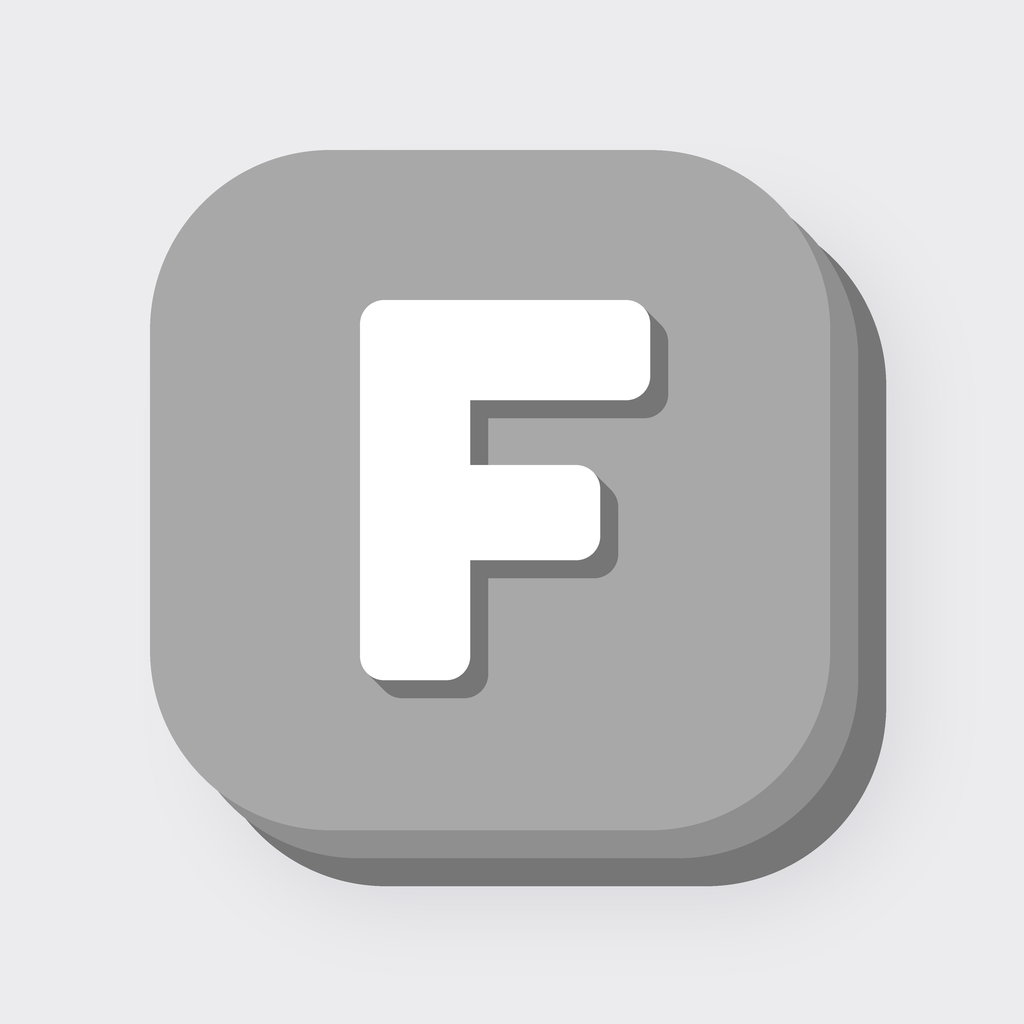
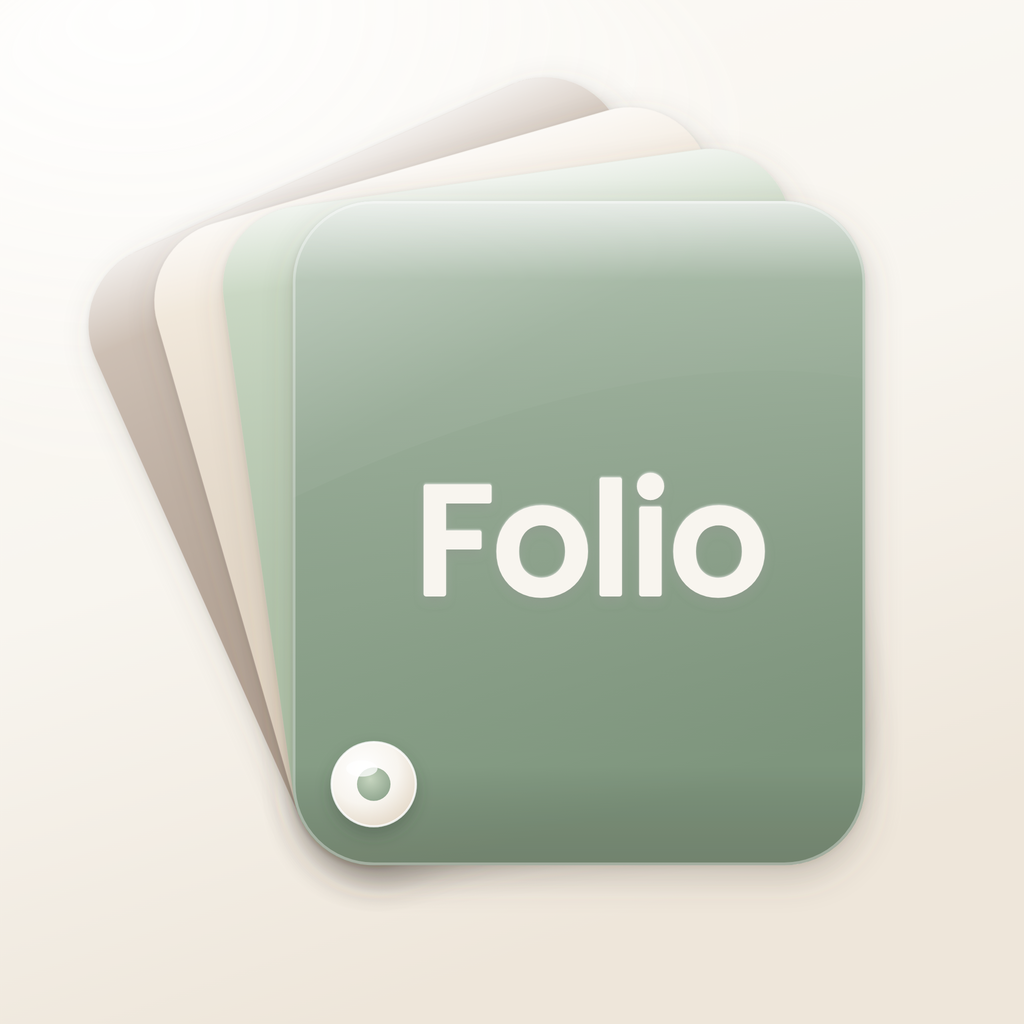
Add files via upload

diff --git a/sw.js b/sw.js
@@ -1,6 +1,6 @@
-// Folio v2 service worker: works offline. Cache 2d7a1ba971
-const CACHE='folio2-2d7a1ba971';
-const FILES=["./", "boot-check.js", "icon-1024.png", "icon-180.png", "icon-192.png", "icon-2048.png", "icon-512.png", "index.html", "manifest.json", "app.js", "cc.js", "ccengine.js", "ccrates.js", "checklists.js", "cols.js", "crypto.js", "data.js", "dates.js", "db.js", "editor.js", "entities.js", "focus.js", "formula.js", "github.js", "home.js", "hub.js", "import.js", "kbar.js", "kpi.js", "lock.js", "longtext.js", "main.js", "model.js", "notify.js", "page.js", "popedit.js", "project.js", "search.js", "settings.js", "store.js", "sync.js", "table.js", "ui.js", "views.js", "styles.css"];
+// Folio v2 service worker: works offline. Cache 71269bf202
+const CACHE='folio2-71269bf202';
+const FILES=["./", "boot-check.js", "icon-1024.png", "icon-180.png", "icon-192.png", "icon-2048.png", "icon-512.png", "index.html", "logo-256.png", "manifest.json", "app.js", "cc.js", "ccengine.js", "ccrates.js", "checklists.js", "cols.js", "crypto.js", "data.js", "dates.js", "db.js", "editor.js", "entities.js", "focus.js", "formula.js", "github.js", "home.js", "hub.js", "import.js", "kbar.js", "kpi.js", "lock.js", "longtext.js", "main.js", "model.js", "notify.js", "page.js", "popedit.js", "project.js", "search.js", "settings.js", "store.js", "sync.js", "table.js", "ui.js", "views.js", "styles.css"];
 self.addEventListener('install',e=>{e.waitUntil(caches.open(CACHE).then(c=>c.addAll(FILES)).then(()=>self.skipWaiting()))});
 self.addEventListener('activate',e=>{e.waitUntil(caches.keys().then(ks=>Promise.all(ks.filter(k=>k!==CACHE).map(k=>caches.delete(k)))).then(()=>self.clients.claim()))});
 self.addEventListener('fetch',e=>{const u=new URL(e.request.url);if(e.request.method!=='GET'||u.origin!==location.origin)return;

diff --git a/ui.js b/ui.js
@@ -114,7 +114,8 @@ export function later(items, build, { first = 40, step = 60, into } = {}) {
   }
   return now;
 }
-export const logo = (size = 30) => h('div', { class: 'logo', style: { width: size + 'px', height: size + 'px', fontSize: Math.round(size * 0.62) + 'px', borderRadius: Math.round(size * 0.27) + 'px' }, 'aria-hidden': 'true' }, 'F');
+/** the Folio app icon (fanned cards + binding pin) as the in-app logo */
+export const logo = (size = 30) => h('img', { class: 'logo logo-img', src: 'logo-256.png', alt: '', width: size, height: size, style: { width: size + 'px', height: size + 'px' }, 'aria-hidden': 'true', draggable: 'false' });
 
 // ---- sanitiser: only a small set of inline tags survives; never runs scripts ----
 /** text colours / highlights and sizes the editor keeps (span[data-c], mark[data-c], span[data-s]) */

diff --git a/styles.css b/styles.css
@@ -2118,3 +2118,4 @@ body[data-orient="landscape"] .wrap .cover.pgcover { height: 130px; }
 body[data-layout="rail"]:has(#main .pgcover) .topbar .tpill:not(:first-child) { display: none; }
 body[data-layout="rail"] .wrap .cover.pgcover { margin-top: 52px !important; }
 .hi-type { display: inline-block; padding: 0 6px; border-radius: 5px; background: var(--bg2); color: var(--ink2); font-size: 11.5px; margin-right: 2px; }
+.logo.logo-img { background: none !important; box-shadow: none !important; border-radius: 22%; object-fit: contain; display: inline-block; }
